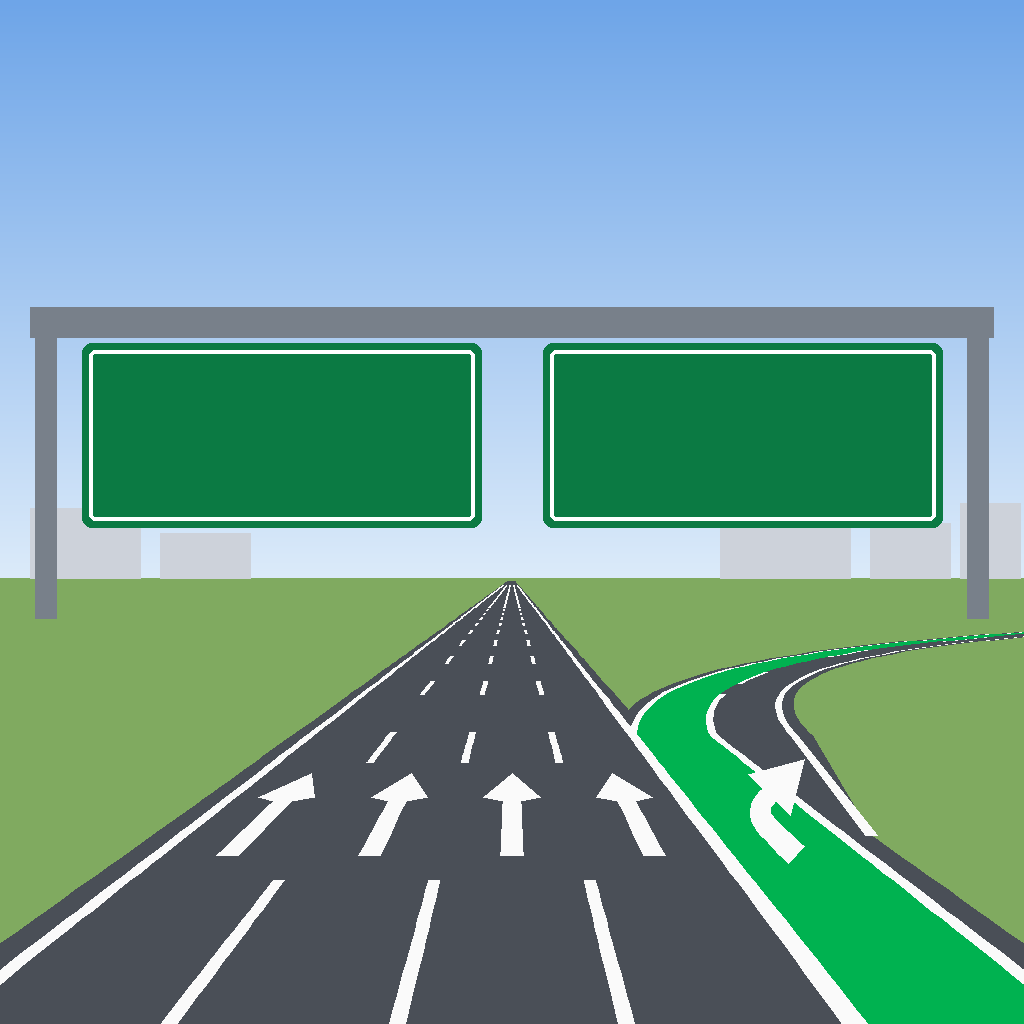
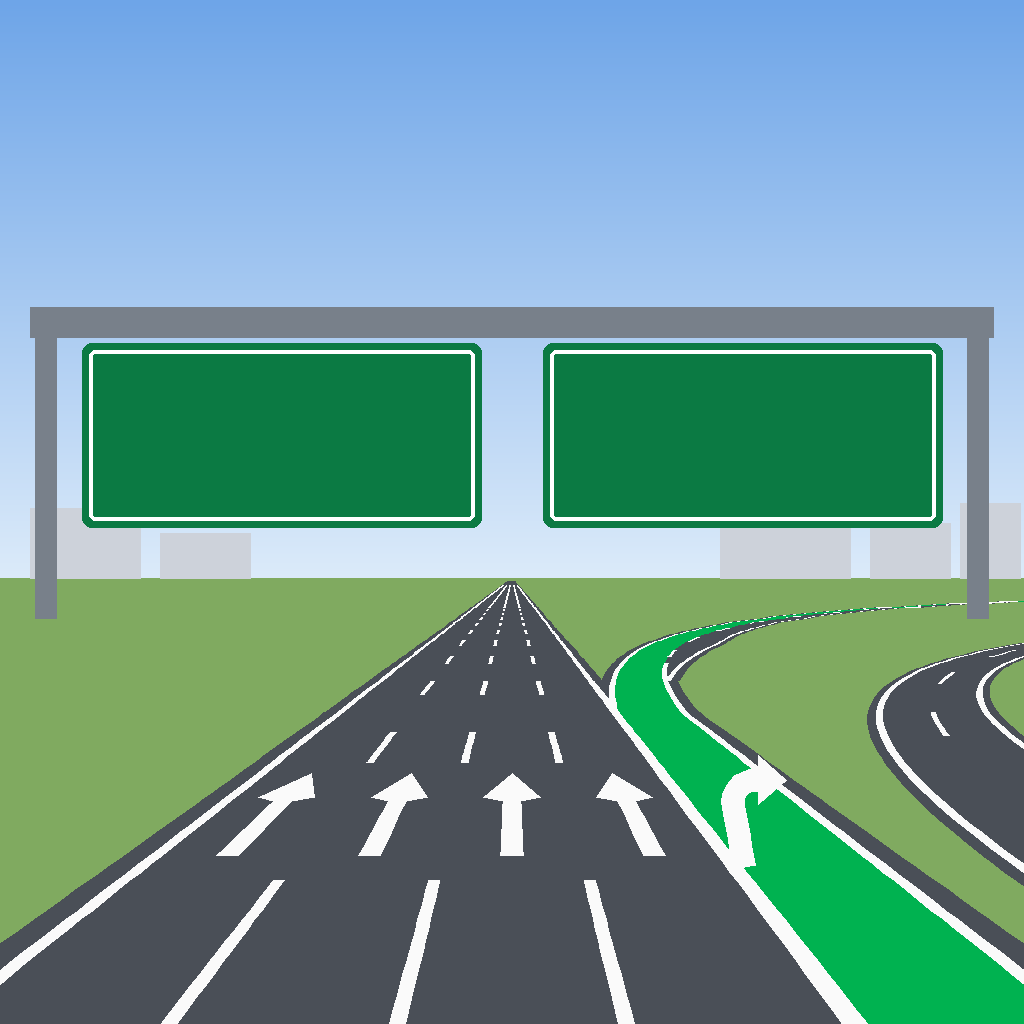
jx2 x41c sketch, gentle like Naver: the exit lane runs straight for the bottom ~40% and then sweeps right with a large radius; an upright bent-right arrow; a second ramp on the far right (driver: '네이버처럼 완만하게'; parent session: the arrow read as a hook curling left)
- Gore at 21 m. After it the lane shifts by 0.15·d + 0.0125·d², so it sweeps to the right edge just under the horizon
  and stays visible as a wide curve. Before: 18 m and 0.32·d + 0.042·d².
- The grey second ramp lane widens along the curve from 27 m to 43 m, so no stray taper line crosses the grass. The
  dashed line between the ramp lanes starts there.
- Another ramp on the far right, separated by grass and curving right (not painted, not counted).
- arrow_glyph: the exit-lane arrow is drawn upright on screen — stem up, quarter turn right, head pointing right (↱). It
  used to follow the lane's perspective, which made it look like a hook curling left.
- The solid separator from the front and the 4 + 1 lanes are unchanged. The layout check passes (route 0.94, other 0.00).
Comparison: shared notes jx-compare/v293-x41c/sketch_x41c_gentle_vs_naver.png (Naver 338 m | previous | new).

Changed region(s): [[0.5938, 0.5938, 1.0, 0.875]]

diff --git a/tools/jx_scene2.py b/tools/jx_scene2.py
@@ -104,17 +104,23 @@ SHAPES = {
 #   휘어 지평선 아래에서 그림 오른쪽 끝으로 나간다. 연결로는 고어부터 두 차로(경로 초록 + 오른쪽 회색 한 차로, 사이 점선 — 네이버의 바깥
 #   회색 차로). 출구 차로 바닥 화살표는 오른쪽으로 꺾이는 ↱, 본선은 ↑. v258 의 '앞쪽 곧게, 고어는 지평선 가까이'(x41)는 그대로 두고
 #   네이버와 맞춘 곳만(app.js JX_CURVE) 이 그림을 쓴다
-ZS_C = 18.0
-RAMP_C = (0.32, 0.042, ZS_C)
+# v293b (운전자 '네이버처럼 완만하게'): 초록 출구 차로는 그림 아래 40% 동안 본선 옆에 곧게 가다가(고어 21m), 큰 반지름으로 완만하게
+#   오른쪽으로 휘어 지평선 바로 밑에서 오른쪽 끝까지 넓게 쓸고 나간다 (예전 18m · 0.32·d + 0.042·d² 는 너무 이르고 급했다)
+ZS_C = 21.0
+RAMP_C = (0.15, 0.0125, ZS_C)
+# 네이버처럼 오른쪽 끝에 따로 휘는 다른 연결로 (칠 안 함, 글자·차로 수에 넣지 않음): 그림 오른쪽 아래에서 생겨 오른쪽으로
+FAR_RAMP = {'x': 12.2, 'w': 5.6, 'z0': 9.0, 'bend': (0.22, 0.03)}
+RAMP2_Z = (ZS_C + 6.0, ZS_C + 22.0)   # 연결로 오른쪽 회색 차로가 휘는 길을 따라 생겨 넓어지는 곳 (시작, 다 넓어진 곳)
 
 
 def _curve():
     sh = _exit(4, 1)
     sh['bend'] = {0: [], 1: [RAMP_C]}
     sh['zs'] = ZS_C
-    sh['ramp2'] = (sh['lanes'][-1][1], ZS_C)   # 출구 차로 오른쪽 가장자리 X, 회색 차로가 생기는 Z
-    sh['turn'] = {1: 3.8}
+    sh['ramp2'] = (sh['lanes'][-1][1], RAMP2_Z[1], RAMP2_Z[0])   # 출구 차로 오른쪽 가장자리 X, 다 넓어진 Z, 생기기 시작하는 Z
+    sh['turn'] = {1: 1}
     sh['solid_split'] = True
+    sh['far'] = FAR_RAMP
     return sh
 
 
@@ -204,6 +210,33 @@ def arrow_turn(cx, z0, z1, turn):
     return L + [head[2], head[1], head[0]] + R[::-1]
 
 
+def arrow_glyph(cx, z):
+    """v293b x41c: 오른쪽으로 꺾이는 ↱ 를 화면에 곧게 세워 그린다 (차로 원근을 따라 기울이면 왼쪽으로 말린 갈고리처럼 보였다 — 부모 세션)"""
+    x0, y0 = proj(cx, z)
+    k = F / z / 30.0          # 크기: 둘레 화살표보다 조금 크게 (z 12m 에서 약 1.1)
+    H, R, L, hl, hw, wd = 96 * k, 24 * k, 3 * k, 25 * k, 22 * k, 10 * k
+    lean = -0.18              # 차로가 지평선 쪽으로 모이는 만큼 아주 조금만 기울인다
+    ys = 0.06 * H
+    path = [(0.0, -H / 2 + i * (H / 2 + ys) / 6) for i in range(7)]
+    for i in range(1, 9):
+        t = math.pi - (math.pi / 2) * i / 8
+        path.append((R + R * math.cos(t), ys + R * math.sin(t)))
+    path.append((R + L, ys + R))
+    ou = -(R + L + hl) / 2 + 9 * k   # 몸통이 왼쪽 실선에 붙지 않게, 그림 가운데가 차로 가운데쯤
+    pts = [(x0 + u + ou + lean * v, y0 - v) for u, v in path]
+    Lp, Rp = [], []
+    for i, (x, y) in enumerate(pts):
+        xa, ya = pts[max(0, i - 1)]
+        xb, yb = pts[min(len(pts) - 1, i + 1)]
+        dx, dy = xb - xa, yb - ya
+        n = math.hypot(dx, dy) or 1.0
+        nx, ny = -dy / n, dx / n
+        Lp.append((x + nx * wd, y + ny * wd)); Rp.append((x - nx * wd, y - ny * wd))
+    ex, ey = pts[-1]
+    head = [(ex, ey - hw), (ex + hl, ey), (ex, ey + hw)]
+    return Lp + head + Rp[::-1]
+
+
 def lane_groups(sh):
     """갈래별 (왼쪽 X, 오른쪽 X, 시작 Z)"""
     g = {}
@@ -237,11 +270,17 @@ def draw_base(name):
     r2 = sh.get('ramp2')
     if r2:
         # v293 x41c: 고어부터 출구 연결로 오른쪽에 회색 한 차로 (앞머리는 비스듬히 넓어진다)
-        xr, z2 = r2
-        d.polygon(strip(xr, xr + LW + 0.8, 1, sh, z2), fill=asphalt)
-        zt = z2 - 7.0
-        d.polygon([proj(xr + 0.8, zt), proj(xr + LW + 0.8, z2), proj(xr + 0.8, z2)], fill=asphalt)
-        d.polygon([proj(xr + 0.65, zt), proj(xr + 0.97, zt), proj(xr + LW + 0.16, z2), proj(xr + LW - 0.16, z2)], fill=white)
+        xr, z2 = r2[:2]
+        zt = r2[2] if len(r2) > 2 else z2 - 7.0
+        wz = lambda z: LW * min(1.0, max(0.0, (z - zt) / (z2 - zt)))
+        Zs = [z for z in zs() if z > zt]
+        Lr = [proj(xr + shift(z, 1, sh), z) for z in Zs]
+        Rr = [proj(xr + wz(z) + 0.8 + shift(z, 1, sh), z) for z in Zs]
+        d.polygon(Lr + Rr[::-1], fill=asphalt)
+        # 바깥 가장자리 실선: 회색 차로가 생기는 곳부터 넓어지는 모양을 따라
+        Lo = [proj(xr + wz(z) - 0.16 + shift(z, 1, sh), z) for z in Zs]
+        Ro = [proj(xr + wz(z) + 0.16 + shift(z, 1, sh), z) for z in Zs]
+        d.polygon(Lo + Ro[::-1], fill=white)
     if sh.get('side'):
         # v263 (운전자: 네이버 성남IC 처럼 — 다른 출구가 우리 출구 차로 오른쪽에서 빗금 고어를 지나 갈라진다)
         #   고어 = 출구 차로 오른쪽 가장자리와 옆 연결로 왼쪽 가장자리 사이 삼각형 (벌어짐이 GORE_W 가 될 때까지만). 길 바닥 + 흰 빗금, 그 뒤는 풀밭
@@ -282,9 +321,9 @@ def draw_base(name):
         lane_line(x0, s, sh, False, d, white, 0.16, zs0 if (s, 'l') in shared else za)
         if r2 and s == 1:
             # v293 x41c: 출구 차로 오른쪽은 고어까지 실선(길 가장자리), 그 뒤는 연결로 두 차로 사이 점선, 바깥 가장자리 실선
-            lane_line(x1, s, sh, False, d, white, 0.16, za, r2[1])
-            lane_line(x1, s, sh, True, d, white, 0.13, r2[1])
-            lane_line(x1 + LW, s, sh, False, d, white, 0.16, r2[1])
+            zt2 = r2[2] if len(r2) > 2 else r2[1]
+            lane_line(x1, s, sh, False, d, white, 0.16, za, zt2)
+            lane_line(x1, s, sh, True, d, white, 0.13, zt2)
             continue
         lane_line(x1, s, sh, False, d, white, 0.16, zs0 if (s, 'r') in shared else za)
     for i, ln in enumerate(sh['lanes'][1:], 1):
@@ -305,7 +344,16 @@ def draw_base(name):
             continue
         x0, x1, s = ln[:3]
         tn = sh.get('turn', {}).get(s, 0)
-        d.polygon(arrow_turn((x0 + x1) / 2, 10.2, 14.5, tn) if tn else arrow_poly((x0 + x1) / 2, s, sh, 10.2, 14.5, 0), fill=white)
+        d.polygon(arrow_glyph((x0 + x1) / 2, 12.0) if tn else arrow_poly((x0 + x1) / 2, s, sh, 10.2, 14.5, 0), fill=white)
+    far = sh.get('far')
+    if far:
+        # v293b: 오른쪽 끝 다른 연결로 (풀밭을 사이에 두고) — 회색 길, 가장자리 실선
+        fsh = {'bend': {9: [(far['bend'][0], far['bend'][1], far['z0'])]}}
+        xa, xb = far['x'], far['x'] + far['w']
+        d.polygon(strip(xa - 0.6, xb + 0.6, 9, fsh, far['z0'] - 6.0), fill=asphalt)
+        lane_line(xa, 9, fsh, False, d, white, 0.16, far['z0'] - 6.0)
+        lane_line(xb, 9, fsh, False, d, white, 0.16, far['z0'] - 6.0)
+        lane_line((xa + xb) / 2, 9, fsh, True, d, white, 0.12, far['z0'])
     gray = (120, 128, 138)
     d.rectangle([BEAM[0] * W, BEAM[1] * H, BEAM[2] * W, BEAM[3] * H], fill=gray)
     d.rectangle([0.035 * W, BEAM[1] * H, 0.055 * W, HZ + 40], fill=gray)
